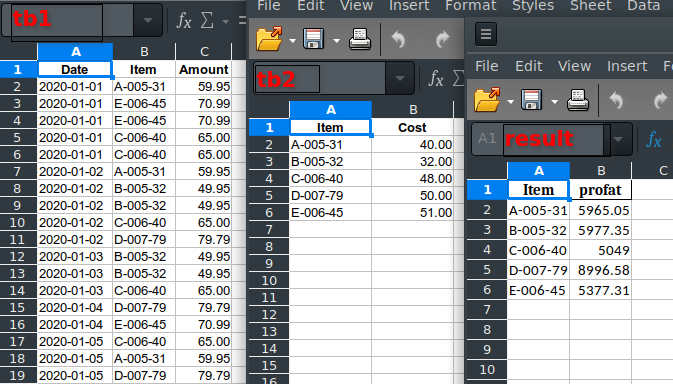
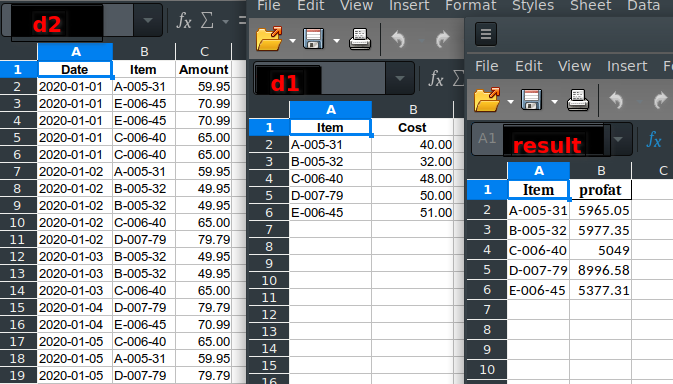
update

Changed region(s): [[0.7489, 0.3125, 0.9049, 0.4062], [0.0, 0.0, 0.156, 0.0938], [0.3744, 0.1562, 0.4993, 0.25]]

diff --git a/README.html b/README.html
@@ -4,3 +4,6 @@ A Python Desktop GUI</strong></p>
 <p><img alt="program" src="images/sqlcells.png" title="SQLcells.py" /></p>
 <h3>Spreadsheet inputs and result</h3>
 <p><img alt="program" src="images/spreadsheets.png" title="spreadsheets" /></p>
+<p>When launch is checked, the result is opened in LibreOffice Calc</p>
+<p>Clicking on an input file lets you open the spreadsheet/csv or view the columns and data types.</p>
+<p>Up to six input files are allowd.</p>

diff --git a/sqlcells.py b/sqlcells.py
@@ -20,8 +20,8 @@ from ttkbootstrap.constants import *
 cdf = ""
 cfile = ""
 ctype = ""
-tb1, tb2, tb3, tb4, tb5, tb6 = "", "", "", "", "", ""
-tbs = []
+d1, d2, d3, d4, d5, d6 = "", "", "", "", "", ""
+ds = []
 
 
 class Application(Frame):
@@ -115,8 +115,8 @@ class Application(Frame):
                                                          ("csv files","*.csv"),("all files","*.*")))
         if fname:
             try:
-                tb = "tb" + str(self.lstn.size() + 1)
-                self.lstn.insert(tk.END, tb + ": " + fname)
+                d = "d" + str(self.lstn.size() + 1)
+                self.lstn.insert(tk.END, d + ": " + fname)
             except:
                 messagebox.showerror("Open File", "Failed to open file\n'%s'" % fname)
 
@@ -191,9 +191,9 @@ class Application(Frame):
 
     def load_data_frames(self):
         ''' load data frames from the list of input files (tables)
-        using global vars tb1 ... tb6 - MAX 6 files '''
-        global tb1, tb2, tb3, tb4, tb5, tb6, tbs
-        tbs.clear()
+        using global vars d1 ... d6 - MAX 6 files '''
+        global d1, d2, d3, d4, d5, d6, ds
+        ds.clear()
         items = list(self.lstn.get(0, tk.END))
         for f in items:
             self.parse_input(f)
@@ -201,21 +201,21 @@ class Application(Frame):
                 df = pd.read_csv(cfile)
             else:
                 df = pd.read_excel(cfile)
-            tbs.append(df)
-        # tb1, tb2, tb3, tb4, tb5 = tbs[0], tbs[1], tbs[2], tbs[3], tbs[4]
-        ntbs = len(items)
-        if ntbs == 1:
-            tb1 = tbs[0]
-        elif ntbs == 2:
-            tb1, tb2 = tbs[0], tbs[1]
-        elif ntbs == 3:
-            tb1, tb2, tb3 = tbs[0], tbs[1], tbs[2]
-        elif ntbs == 4:
-            tb1, tb2, tb3, tb4 = tbs[0], tbs[1], tbs[2], tbs[3]
-        elif ntbs == 5:
-            tb1, tb2, tb3, tb4, tb5 = tbs[0], tbs[1], tbs[2], tbs[3], tbs[4]
-        elif ntbs == 6:
-            tb1, tb2, tb3, tb4, tb5, tb6 = tbs[0], tbs[1], tbs[2], tbs[3], tbs[4], tbs[5]
+            ds.append(df)
+        # d1, d2, d3, d4, d5 = ds[0], ds[1], ds[2], ds[3], ds[4]
+        nds = len(items)
+        if nds == 1:
+            d1 = ds[0]
+        elif nds == 2:
+            d1, d2 = ds[0], ds[1]
+        elif nds == 3:
+            d1, d2, d3 = ds[0], ds[1], ds[2]
+        elif nds == 4:
+            d1, d2, d3, d4 = ds[0], ds[1], ds[2], ds[3]
+        elif nds == 5:
+            d1, d2, d3, d4, d5 = ds[0], ds[1], ds[2], ds[3], ds[4]
+        elif nds == 6:
+            d1, d2, d3, d4, d5, d6 = ds[0], ds[1], ds[2], ds[3], ds[4], ds[5]
 
     def read_saved_query(self, filepath):
         ''' reads file of saved query code and displays in user's GUI '''
@@ -250,6 +250,7 @@ class Application(Frame):
 
     def prompt_info(self, e=None):
         ''' Does user want to see spreadsheet or only column names/types '''
+        print("got here")
         request = simpledialog.askinteger("Spreadsheet Action",
                                           "Enter 1 to open spreadsheet\nEnter 2 to view file Info",
                                           parent=self,

diff --git a/README.md b/README.md
@@ -7,3 +7,9 @@ A Python Desktop GUI**
 ### Spreadsheet inputs and result
 
 ![program](images/spreadsheets.png "spreadsheets")
+
+When launch is checked, the result is opened in LibreOffice Calc
+
+Clicking on an input file lets you open the spreadsheet/csv or view the columns and data types.
+
+Up to six input files are allowd.
